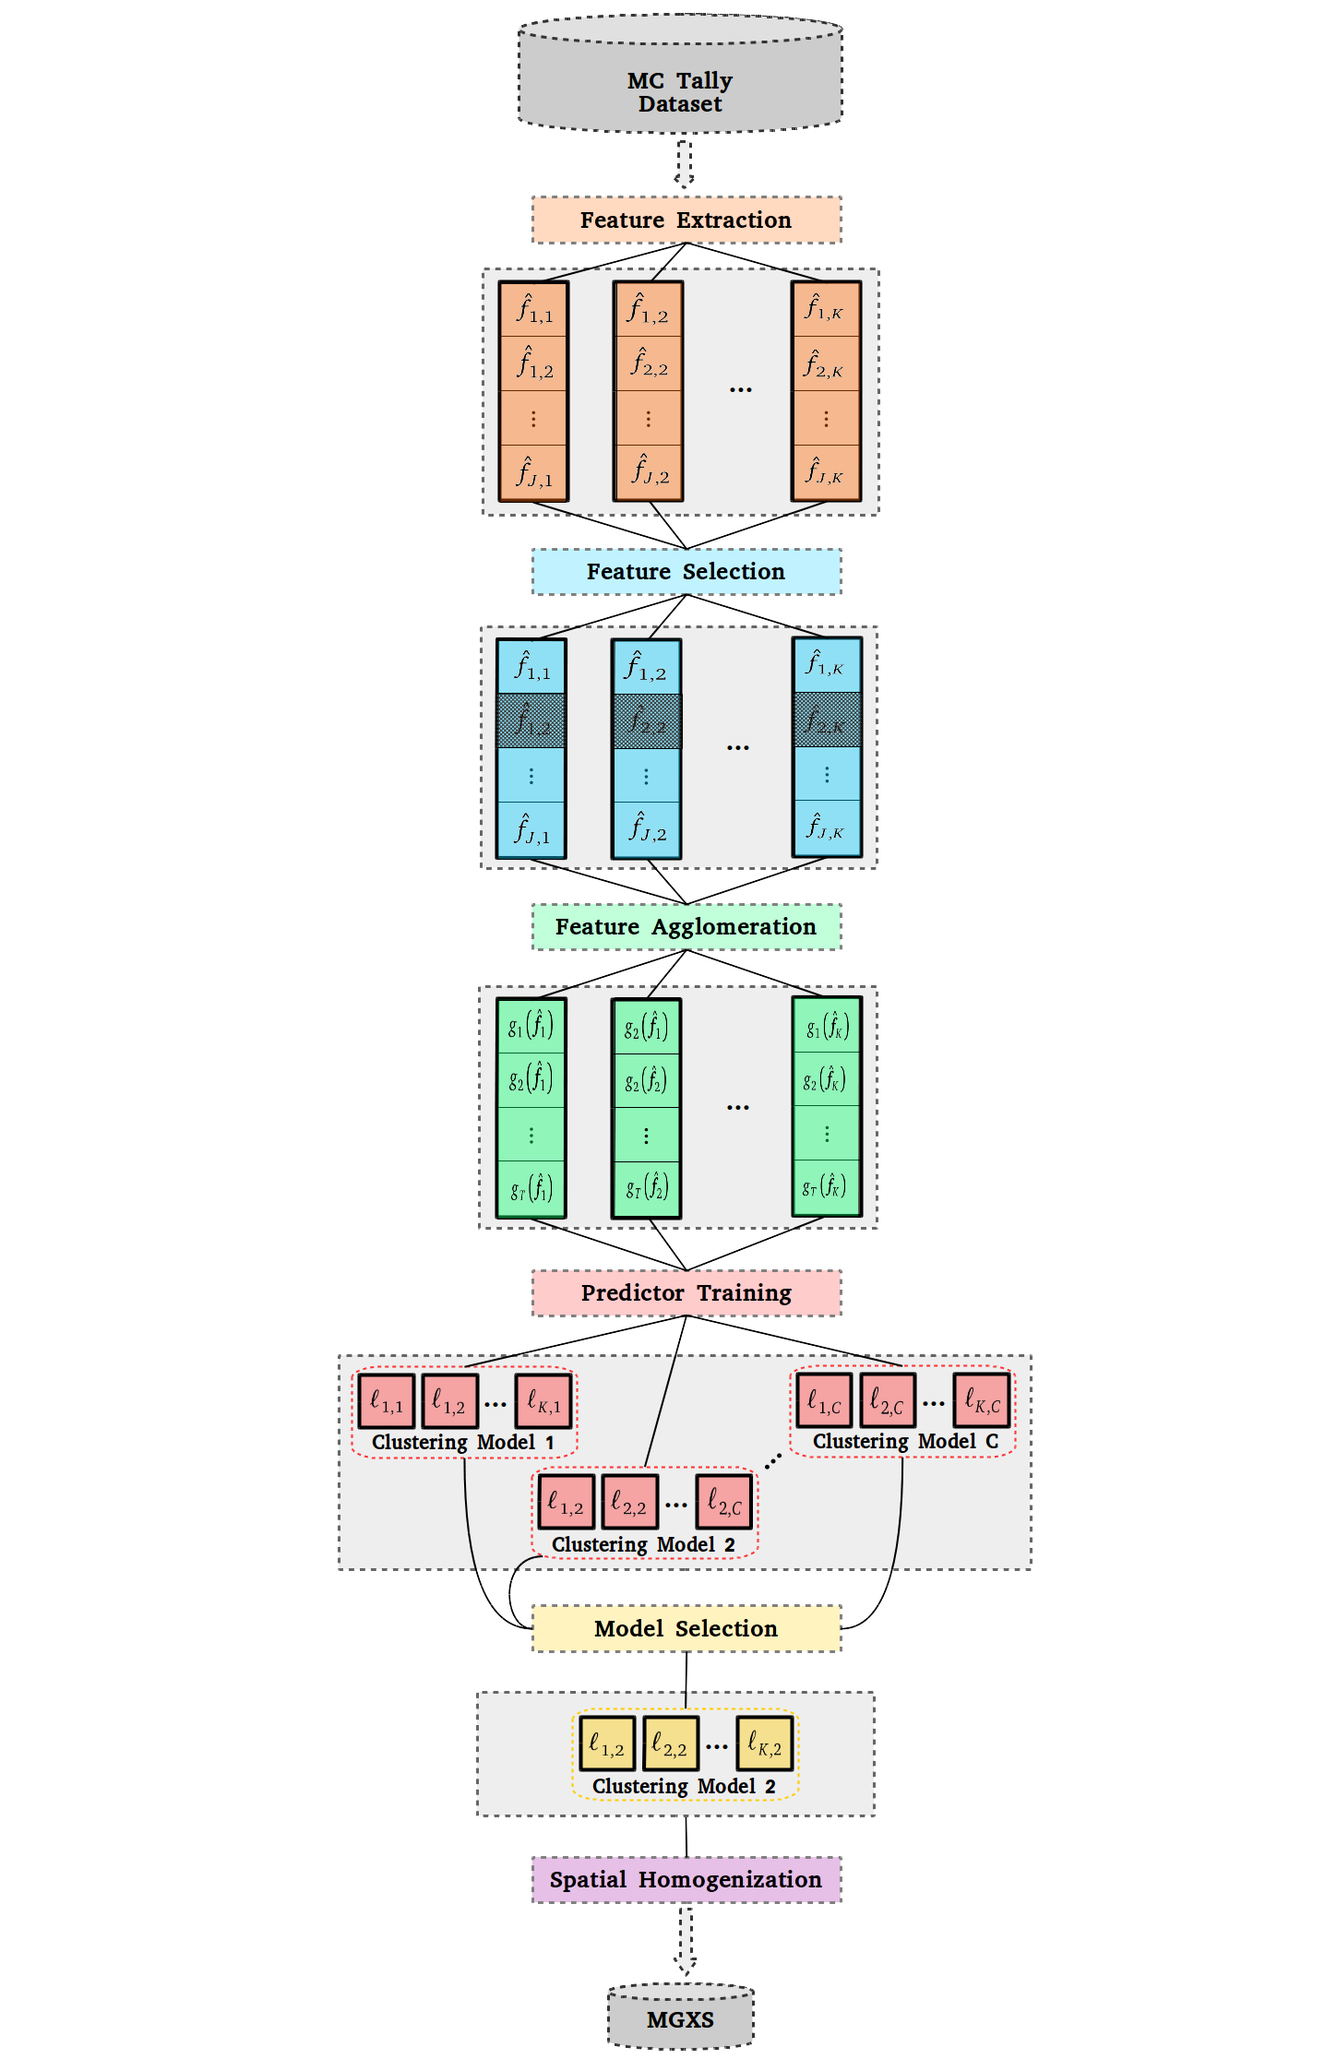
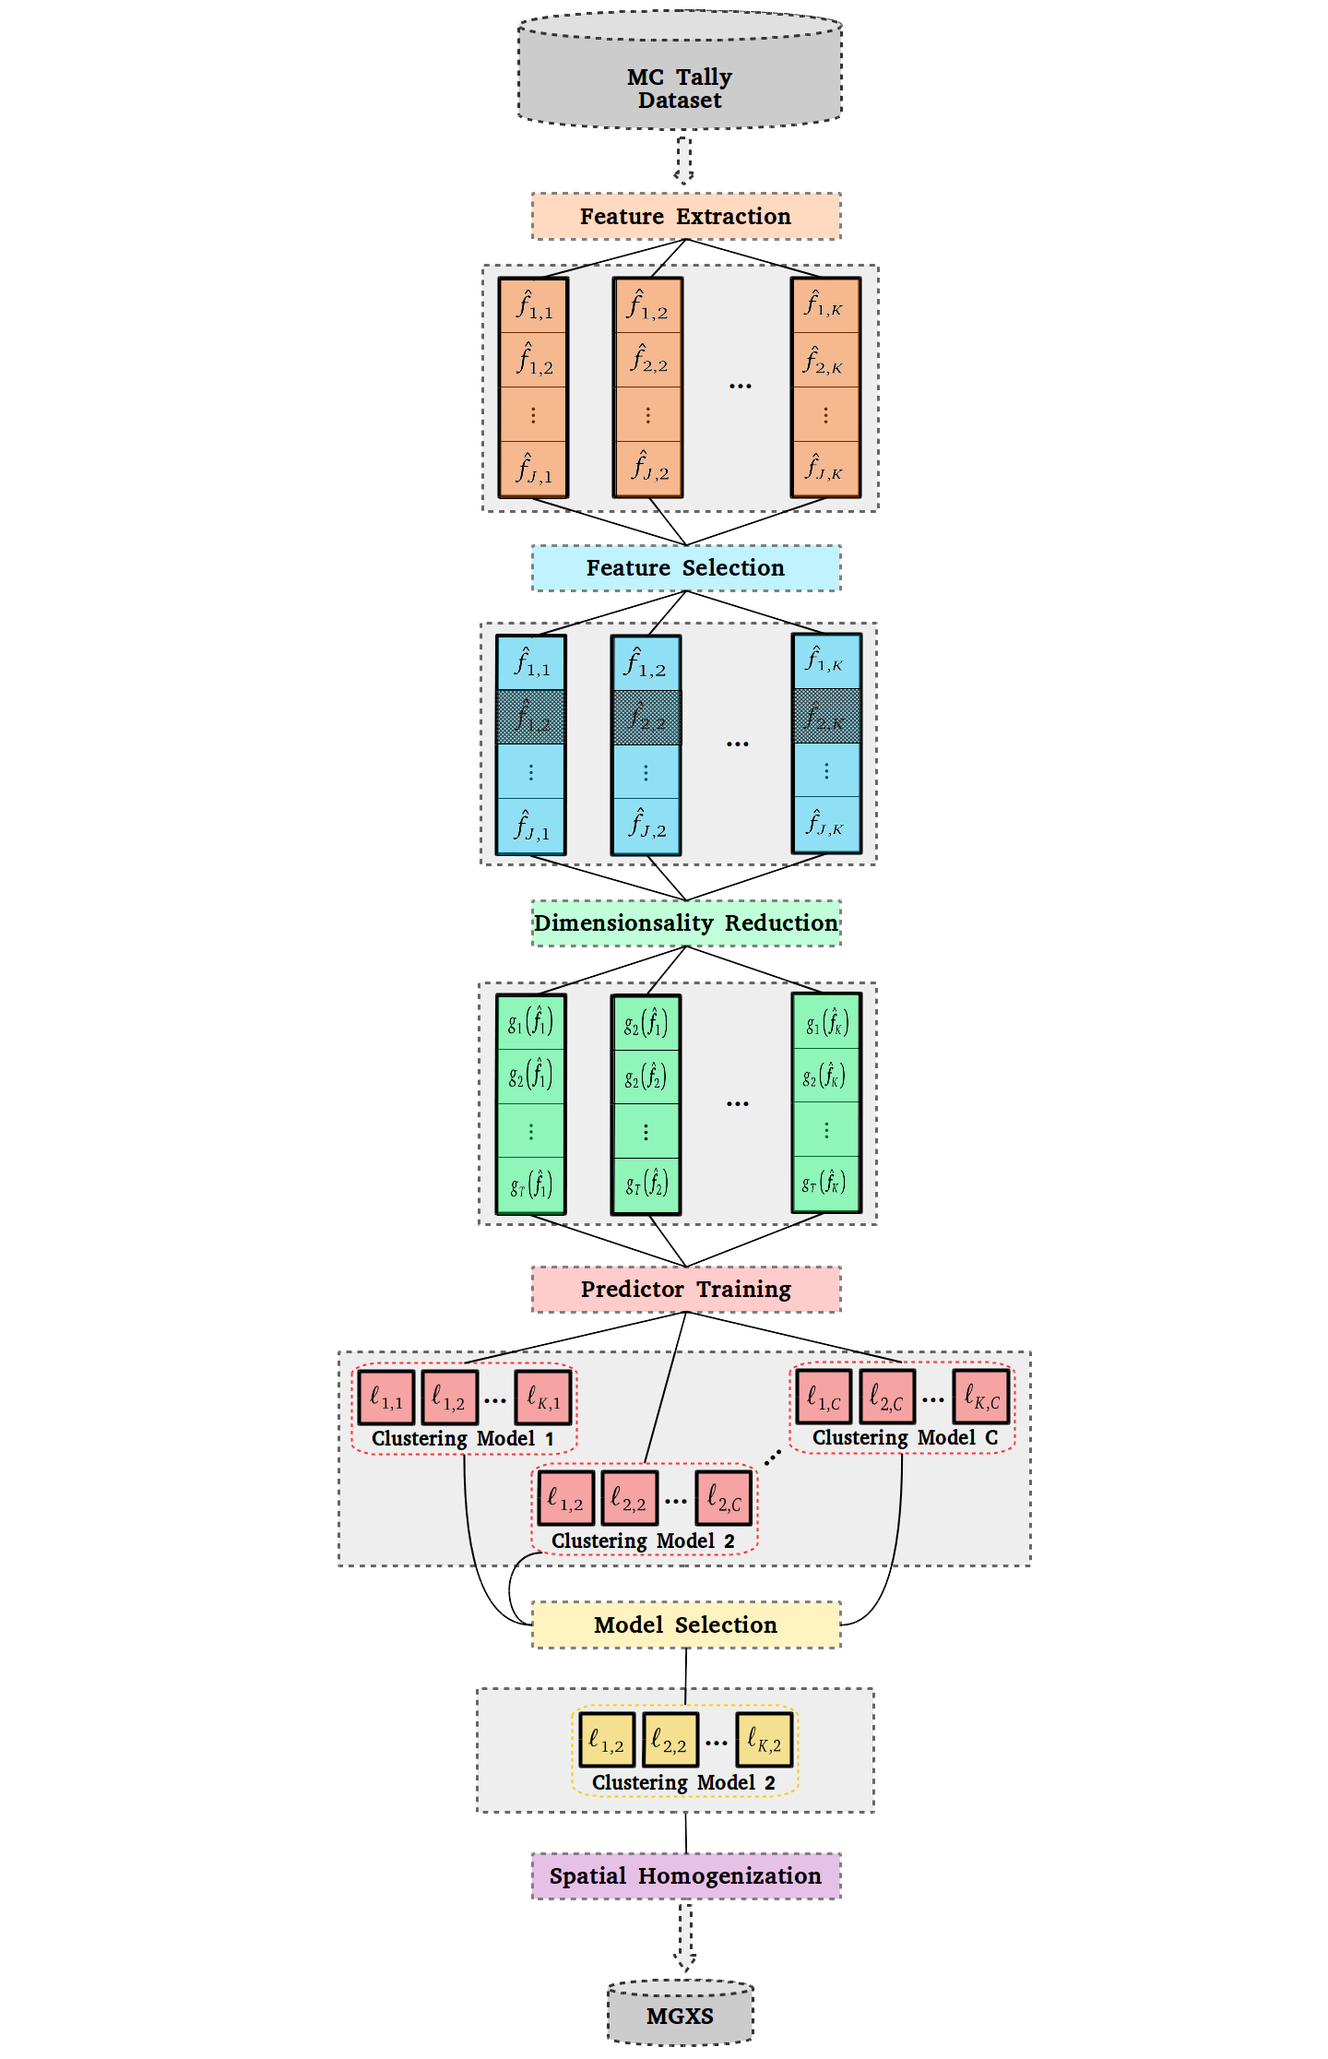
Outlined iMGXS spatial homogenization sectoin

Changed region(s): [[0.2451, 0.0, 0.766, 1.0]]

diff --git a/chapters/unsupervised.tex b/chapters/unsupervised.tex
@@ -20,7 +20,7 @@ This chapter begins by introducing a general latent variable model for \ac{MGXS}
 \section{Latent Spectral Variable Model}
 \label{sec:chap10-lsvm}
 
-[REDACTED: TO INCLUDE OR NO??]
+[REDACTED: to include or no??]
 
 %
 %This section postulates the existence of a probability distribution from which pin-wise \ac{MGXS} are drawn when generated from Monte Carlo tallies. In particular, this section introduces a \textit{latent variable model} -- termed the \ac{LSVM} -- which encapsulates the spatial self-shielding effects in heterogeneous geometries that leads to clustering of pin-wise \ac{MGXS}. \ac{LSVM} inspires the development of the unsupervised statistical clustering methodology for spatial homogenization that is the topic of this and the following chapter. Latent variable models are a widely used theoretical construct for representing \textit{hidden variables} which parameterize the probability distributions that are thought to have produced some observed dataset. This section loosely follows Bishop's presentation of probabilistic mixture models~\cite{bishop2006pattern}, including the mathematical notation frequently employed by discussions of latent variable models in the statistics and machine learning literature. Sec.~\ref{subsec:chap10-lsvm-math} introduces the concept of latent spectral variables which dictate a parametrization of a mixture distribution which generated the pin-wise \ac{MGXS}. Sec.~\ref{subsec:chap10-lsvm-graph} illustrates \ac{LSVM} with a few graphical models.
@@ -1521,6 +1521,39 @@ The first term in the BIC uses the maximum log-likelihood to measure the ability
 \section{\textit{i}\ac{MGXS} Spatial Homogenization}
 \label{sec:chap10-imgxs-pipeline}
 
+%The final \textit{spatial homogenization} stage in the data processing pipeline in Fig.~\ref{fig:chap10-pipeline} chooses the ``best'' predictive model for \ac{MGXS} clustering.
+
+first paragraph: objective
+-final \textit{spatial homogenization} stage in Fig.~\ref{fig:chap10-pipeline}
+-Fig.~\ref{fig:chap10-flow-chart}
+-reference \ac{LNS} Sec.~\ref{subsec:chap9-lns-overview}
+-recall two-pronged goal:
+  -achieve degenerate's accuracy
+  -approach null's convergence rate by averaging across as many fuel pin instances as possible
+    -increase particle track density within each tally volume
+  -similar to LNS, but uses an unsupervised approach which ONLY considers data tallied with MC and does not consider the geometry AT ALL
+
+second paragraph: how does it work
+-look back at LNS overview section:
+  -\ac{MGXS} separately tallied for each instance of fissile material zones using OpenMC's distributed cell tally algorithm
+  -\textit{i}\ac{MGXS} assigns integral clustering labels $\ell_{k}$ to each fuel pin instance $k$
+  -pins deemed to be have similar spatial self-shielding effects will have same cluster labels
+  -\ac{MGXS} averaged across all fuel pin instances with same cluster labels using TD-weighting
+  -OpenCG region differentiation used to build an OpenMOC geometry with unique cells and materials for each fuel pin which mirors the \textit{i}\ac{MGXS} representation of the combinatorial geometry model
+  -Like the infinite, null, degenerate and \ac{LNS} schemes, spatial self-shielding effects experienced by different non-fissile spatial zones are averaged across the entire geometry for each non-fissile material.
+-reference track density-weighted \ac{MGXS} in Sec.~\ref{subsec:chap9-lns-math}
+  -Eqn.~\ref{eqn:chap9-lns-micro} for TD-weighted average \ac{MGXS}
+  -not simply the geometric average since this won't preserve global reactivity
+  -instead separately sum the flux and reaction rate tallies across clustered fuel pin instances before dividing to compute the \ac{MGXS}
+
+third paragraph: implications
+-refer back to Sec.~\ref{sec:chap9-convergence}
+  -Eqn.~\ref{eqn:chap9-homogenize-std-dev} is the average std. dev. of the homogenized \ac{MGXS}
+    -std. dev. reduced (shifted down) by a factor inversely proportional to the number of pin in the cluster
+  -discussion about convergence and uncertainties still applies
+  -Eqn.~\ref{eqn:chap9-lns-micro} for a generic \ac{MGXS}, with a similar approach taken to compute scattering matrices and the fission spectrum
+-mention uneven assignemt of pins to clusters will impact the relative 
+
 \begin{figure}[h!]
 \centering
 \includegraphics[width=0.95\linewidth]{figures/unsupervised/features/engineering/flow-chart}
@@ -1529,13 +1562,62 @@ The first term in the BIC uses the maximum log-likelihood to measure the ability
 \label{fig:chap10-flow-chart}
 \end{figure}
 
-
 %%%%%%%%%%%%%%%%%%%%%%%%%%%%%%%%%%%%%%%%%%%%%%%%%%%%%%%%%%%%%%%%%%%%%%%%%%%%%%%
 \section{Clustered Geometries}
-\label{sec:chap10-geometries}
+\label{sec:chap10-cluster-geometries}
 
--agglomerative clustering was used to generate the figures
--which nuclide, group, reaction was used for pinch clustering???
+first paragraph: openmc parameters to generate \ac{MGXS}
+-what were the parameters of the OpenMC simulations used??
+  -same as those used for the \ac{LNS} cases:
+
+%The \texttt{openmc.mgxs} module (see Sec.~\ref{subsec:chap4-mgxs}) was used to compute 70-group \ac{MGXS} with OpenMC for each of the six heterogeneous benchmarks introduced in Chap.~\ref{chap:benchmarks}. The tallied \ac{MGXS} data was condensed to coarse 2-group and 8-group structures with downstream data processing as necessary. The OpenMC simulations were performed with 1000 batches with 10$^{6}$ particle histories per batch for each benchmark. This was only one tenth of the 10$^7$ histories per batch used to tally the reference results in Chap.~\ref{chap:benchmarks} for practical computational reasons\footnote{The total runtime consumed by OpenMC scales with the number of tallied quantities. The number of tallies used to compute \ac{MGXS} was much larger than the three used to compute the reference solutions in Chap.~\ref{chap:benchmarks}. As a result, the simulation time per history was prohibitively slow to generate \ac{MGXS} with the same number of histories as was used to compute the reference solution.}. The fission source was converged with 200 inactive batches for the quarter core \ac{BEAVRS} model, while 100 inactive batches were employed for the other five benchmarks (see Sec.~\ref{subsec:chap7-src-stationarity}). OpenMC's ``iso-in-lab'' feature (see Sec.~\ref{subsec:chap4-iso-in-lab}) was employed to enable consistent comparisons between OpenMC's reference results and OpenMOC's calculations with an isotropic in lab scattering source.
+
+second paragraph: \textit{i}\ac{MGXS} parameters
+-number of clusters
+-feature extraction
+  -2-group data
+  -U-234, U-235, U-238 O-16, O-17???
+  -total, capture, nu-fission reaction types
+-feature selection: none and pinch
+  -U-238 capture group 1/2 was used for pinch clustering
+  -mention that the clustering found is dependent on this!!!!
+-dimensionality reduction: none
+  -mention that the clustering found is dependent on this!!!!
+-clustering algorithm
+  -agglomerative clustering
+  -mention that the clustering found is dependent on this!!!!
+
+third paragraph: outline the figures
+-2, 4 and 8 clusters:
+-Fig.~\ref{fig:chap10-assm-16-geometries} - 1.6\% enriched assembly
+-Fig.~\ref{fig:chap10-assm-31-20BPs-geometries} - 3.1\% enriched assembly with 20 \acp{BP}
+-Fig.~\ref{fig:chap10-2x2-geometries} - 2$\times$2 colorset
+-Fig.~\ref{fig:chap10-reflector-geometries} - 2$\times$2 colorset with a reflector
+-fuel pin types with neighboring heterogeneities are assigned unique MGXS
+  -which generally reflects the clustering of MGXS due to spatial self-shielding effects
+  -\textit{i}\ac{MGXS} homogenization would be expected to enable more accurate predictions of reaction rate distributions than is possible with the \ac{LNS} scheme for arbitrary core geometries
+
+fourth paragraph: pinch vs. combined
+-clustering predictions are very dependent on the types of features used
+  -including with PCA, ICA and FA
+-pinch vs. combined differ in whether U-235 and O-16/27 is used in addition to U-238
+-pinch basically reflects clustering of U-238 capture data
+  -PLUS the nuclide fraction for U-238 capture group 1 of 2
+  -and nuclide-independent fractional reactivities spectral indices
+-compare the clusters for the 2$\times$2 colorset with reflector
+  -pins along assembly-assembly and reflector-assembly interfaces better discriminated than with \ac{LNS}
+  -compare and contrast with \ac{LNS}
+-some poorly predicted pins, or ``outlier'' pins, esp. as one uses more and more clusters
+  -though predictions are more ``robust'' with combined feature selection
+
+fifth paragraph: full core
+-Fig.~\Crefrange{fig:chap10-full-core-geometries-2}{fig:chap10-full-core-geometries-64} - full core with 2 -- 64 clusters, in powers of 2
+-differentiation from infinite lattice
+  -when only using 2 clusters in \ac{BEAVRS}, the \ac{MGXS} mimic those for the individual assemblies
+  -EXCEPT that it picks out those pins along the assembly-baffle interface
+  -and combined clutering picks out pins near \acp{BP}
+  -perhaps since it is using the fractional reactivity?? but isn't pinch clustering using this as well??
+-clustering predictions appear to ``fall apart'' for 16+ clusters for the quarter core
 
 \begin{figure}[h!]
 \centering
@@ -1575,7 +1657,7 @@ The first term in the BIC uses the maximum log-likelihood to measure the ability
   \caption{}
   \label{fig:chap10-assm-16-combined-8}
 \end{subfigure}
-\caption[Materials for the 1.6\% fuel assembly with clustering homogenization]{Materials for the 1.6\% enriched fuel assembly with clustering homogenization. The materials for 2, 4, and 8 clusters are illustrated in (a), (c) and (e) for pinch clustering, and in (b), (d) and (f) for combined clustering, respectively.}
+\caption[Materials for the 1.6\% fuel assembly with clustering homogenization]{Materials for the 1.6\% enriched fuel assembly with clustering homogenization. The materials for 2, 4, and 8 clusters are illustrated in (a), (c) and (e) for pinch clustering, and in (b), (d) and (f) for combined clustering, respectively. Each uniquely colored material represents a unique set of MGXS.}
 \label{fig:chap10-assm-16-geometries}
 \end{figure}
 
@@ -1619,7 +1701,7 @@ The first term in the BIC uses the maximum log-likelihood to measure the ability
   \caption{}
   \label{fig:chap10-assm-31-20BPs-combined-8}
 \end{subfigure}
-\caption[Materials for the 3.1\% fuel assembly with clustering homogenization]{Materials for the 3.1\% enriched fuel assembly with 20 \acp{BP} with clustering homogenization. The materials for 2, 4, and 8 clusters are illustrated in (a), (c) and (e) for pinch clustering, and in (b), (d) and (f) for combined clustering, respectively.}
+\caption[Materials for the 3.1\% fuel assembly with clustering homogenization]{Materials for the 3.1\% enriched fuel assembly with 20 \acp{BP} with clustering homogenization. The materials for 2, 4, and 8 clusters are illustrated in (a), (c) and (e) for pinch clustering, and in (b), (d) and (f) for combined clustering, respectively. Each uniquely colored material represents a unique set of MGXS.}
 \label{fig:chap10-assm-31-20BPs-geometries}
 \end{figure}
 
@@ -1663,7 +1745,7 @@ The first term in the BIC uses the maximum log-likelihood to measure the ability
   \caption{}
   \label{fig:chap10-assm-2x2-combined-8}
 \end{subfigure}
-\caption[Materials for the 2$\times$2 periodic colorset with clustering homogenization]{Materials for the 2$\times$2 periodic colorset with clustering homogenization. The materials for 2, 4, and 8 clusters are illustrated in (a), (c) and (e) for pinch clustering, and in (b), (d) and (f) for combined clustering, respectively.}
+\caption[Materials for the 2$\times$2 periodic colorset with clustering homogenization]{Materials for the 2$\times$2 periodic colorset with clustering homogenization. The materials for 2, 4, and 8 clusters are illustrated in (a), (c) and (e) for pinch clustering, and in (b), (d) and (f) for combined clustering, respectively. Each uniquely colored material represents a unique set of MGXS.}
 \label{fig:chap10-2x2-geometries}
 \end{figure}
 
@@ -1707,7 +1789,7 @@ The first term in the BIC uses the maximum log-likelihood to measure the ability
   \caption{}
   \label{fig:chap10-reflector-combined-8}
 \end{subfigure}
-\caption[Materials for the 2$\times$2 colorset with reflector with clustering homogenization]{Materials for the 2$\times$ colorset with water reflector with clustering homogenization. The materials for 2, 4, and 8 clusters are illustrated in (a), (c) and (e) for pinch clustering, and in (b), (d) and (f) for combined clustering, respectively.}
+\caption[Materials for the 2$\times$2 colorset with reflector with clustering homogenization]{Materials for the 2$\times$ colorset with water reflector with clustering homogenization. The materials for 2, 4, and 8 clusters are illustrated in (a), (c) and (e) for pinch clustering, and in (b), (d) and (f) for combined clustering, respectively. Each uniquely colored material represents a unique set of MGXS.}
 \label{fig:chap10-reflector-geometries}
 \end{figure}
 
@@ -1727,7 +1809,7 @@ The first term in the BIC uses the maximum log-likelihood to measure the ability
   \caption{}
   \label{fig:chap10-full-core-combined-2}
 \end{subfigure}
-\caption[Materials for BEAVRS with clustering homogenization (2 clusters)]{Materials for the \ac{BEAVRS} model with \textit{i}\ac{MGXS} spatial homogenization from 2 clusters with pinch feature selection (a) and automated feature selection (b).}
+\caption[Materials for BEAVRS with clustering homogenization (2 clusters)]{Materials for the \ac{BEAVRS} model with \textit{i}\ac{MGXS} spatial homogenization from 2 clusters with pinch feature selection (a) and automated feature selection (b). Each uniquely colored material represents a unique set of MGXS.}
 \label{fig:chap10-full-core-geometries-2}
 \end{figure}
 
@@ -1747,7 +1829,7 @@ The first term in the BIC uses the maximum log-likelihood to measure the ability
   \caption{}
   \label{fig:chap10-full-core-combined-4}
 \end{subfigure}
-\caption[Materials for BEAVRS with clustering homogenization (4 clusters)]{Materials for the \ac{BEAVRS} model with \textit{i}\ac{MGXS} spatial homogenization from 4 clusters with pinch feature selection (a) and automated feature selection (b).}
+\caption[Materials for BEAVRS with clustering homogenization (4 clusters)]{Materials for the \ac{BEAVRS} model with \textit{i}\ac{MGXS} spatial homogenization from 4 clusters with pinch feature selection (a) and automated feature selection (b). Each uniquely colored material represents a unique set of MGXS.}
 \label{fig:chap10-full-core-geometries-4}
 \end{figure}
 
@@ -1767,7 +1849,7 @@ The first term in the BIC uses the maximum log-likelihood to measure the ability
   \caption{}
   \label{fig:chap10-full-core-combined-8}
 \end{subfigure}
-\caption[Materials for BEAVRS with clustering homogenization (8 clusters)]{Materials for the \ac{BEAVRS} model with \textit{i}\ac{MGXS} spatial homogenization from 8 clusters with pinch feature selection (a) and automated feature selection (b).}
+\caption[Materials for BEAVRS with clustering homogenization (8 clusters)]{Materials for the \ac{BEAVRS} model with \textit{i}\ac{MGXS} spatial homogenization from 8 clusters with pinch feature selection (a) and automated feature selection (b). Each uniquely colored material represents a unique set of MGXS.}
 \label{fig:chap10-full-core-geometries-8}
 \end{figure}
 
@@ -1787,7 +1869,7 @@ The first term in the BIC uses the maximum log-likelihood to measure the ability
   \caption{}
   \label{fig:chap10-full-core-combined-16}
 \end{subfigure}
-\caption[Materials for BEAVRS with clustering homogenization (16 clusters)]{Materials for the \ac{BEAVRS} model with \textit{i}\ac{MGXS} spatial homogenization from 16 clusters with pinch feature selection (a) and automated feature selection (b).}
+\caption[Materials for BEAVRS with clustering homogenization (16 clusters)]{Materials for the \ac{BEAVRS} model with \textit{i}\ac{MGXS} spatial homogenization from 16 clusters with pinch feature selection (a) and automated feature selection (b). Each uniquely colored material represents a unique set of MGXS.}
 \label{fig:chap10-full-core-geometries-16}
 \end{figure}
 
@@ -1807,7 +1889,7 @@ The first term in the BIC uses the maximum log-likelihood to measure the ability
   \caption{}
   \label{fig:chap10-full-core-combined-32}
 \end{subfigure}
-\caption[Materials for BEAVRS with clustering homogenization (32 clusters)]{Materials for the \ac{BEAVRS} model with \textit{i}\ac{MGXS} spatial homogenization from 32 clusters with pinch feature selection (a) and automated feature selection (b).}
+\caption[Materials for BEAVRS with clustering homogenization (32 clusters)]{Materials for the \ac{BEAVRS} model with \textit{i}\ac{MGXS} spatial homogenization from 32 clusters with pinch feature selection (a) and automated feature selection (b). Each uniquely colored material represents a unique set of MGXS.}
 \label{fig:chap10-full-core-geometries-32}
 \end{figure}
 
@@ -1827,8 +1909,10 @@ The first term in the BIC uses the maximum log-likelihood to measure the ability
   \caption{}
   \label{fig:chap10-full-core-combined-64}
 \end{subfigure}
-\caption[Materials for BEAVRS with clustering homogenization (64 clusters)]{Materials for the \ac{BEAVRS} model with \textit{i}\ac{MGXS} spatial homogenization from 64 clusters with pinch feature selection (a) and automated feature selection (b).}
+\caption[Materials for BEAVRS with clustering homogenization (64 clusters)]{Materials for the \ac{BEAVRS} model with \textit{i}\ac{MGXS} spatial homogenization from 64 clusters with pinch feature selection (a) and automated feature selection (b). Each uniquely colored material represents a unique set of MGXS.}
 \label{fig:chap10-full-core-geometries-64}
 \end{figure}
 
 \clearpage
+
+SUMMARY BOX!!!
